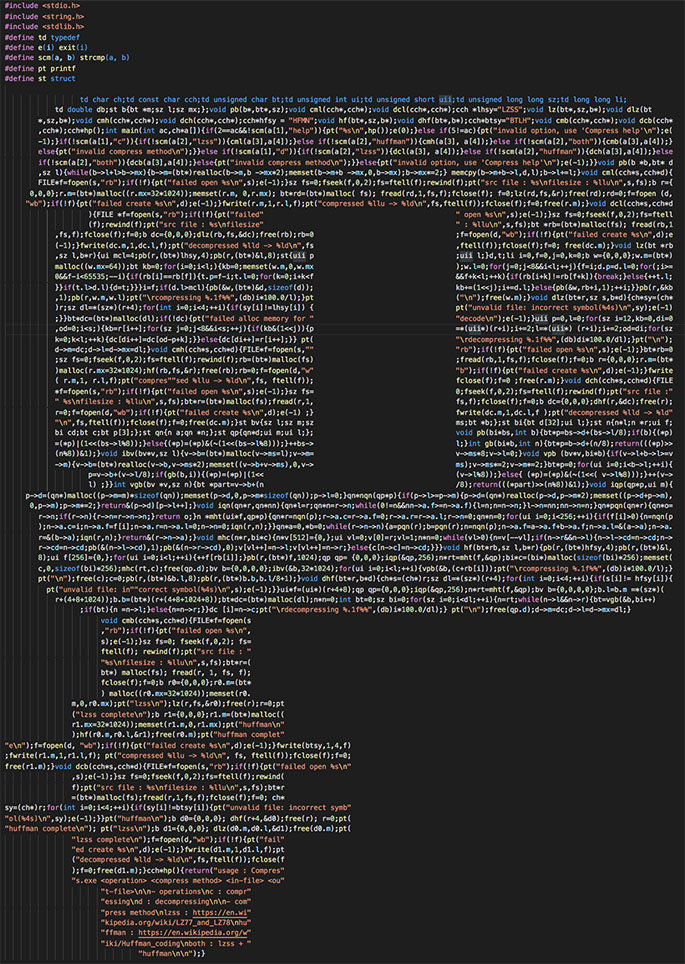
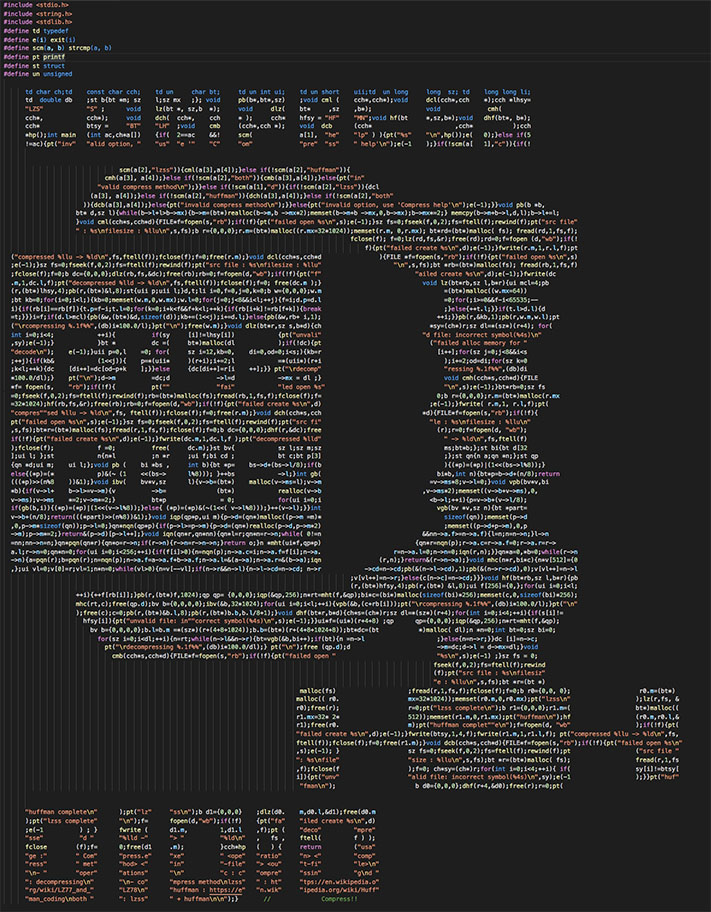
change code layout

diff --git a/src/compress.cpp b/src/compress.cpp
@@ -6,87 +6,99 @@
 #define scm(a, b) strcmp(a, b)
 #define pt printf
 #define st struct
+#define un unsigned
 
-                  td char ch;td const char cch;td unsigned char bt;td unsigned int ui;td unsigned short uii;td unsigned long long sz;td long long li;
-            td double db;st b{bt *m;sz l;sz mx;};void pb(b*,bt*,sz);void cml(cch*,cch*);void dcl(cch*,cch*);cch *lhsy="LZSS";void lz(bt*,sz,b*);void dlz(bt
-        *,sz,b*);void cmh(cch*,cch*);void dch(cch*,cch*);cch*hfsy = "HFMN";void hf(bt*,sz,b*);void dhf(bt*,b*);cch*btsy="BTLH";void cmb(cch*,cch*);void dcb(cch*
-        ,cch*);cch*hp();int main(int ac,ch*a[]){if(2==ac&&!scm(a[1],"help")){pt("%s\n",hp());e(0);}else if(5!=ac){pt("invalid option, use 'Compress help'\n");e(
-        -1);}if(!scm(a[1],"c")){if(!scm(a[2],"lzss")){cml(a[3],a[4]);}else if(!scm(a[2],"huffman")){cmh(a[3], a[4]);}else if(!scm(a[2],"both")){cmb(a[3],a[4]);}
-        else{pt("invalid compress method\n");}}else if(!scm(a[1],"d")){if(!scm(a[2],"lzss")){dcl(a[3], a[4]);}else if(!scm(a[2],"huffman")){dch(a[3],a[4]);}else
-        if(!scm(a[2],"both")){dcb(a[3],a[4]);}else{pt("invalid compress method\n");}}else{pt("invalid option, use 'Compress help'\n");e(-1);}}void pb(b *b,bt* d
-        ,sz l){while(b->l+l>b->mx){b->m=(bt*)realloc(b->m,b ->mx*2);memset(b->m+b ->mx,0,b->mx);b->mx*=2;} memcpy(b->m+b->l,d,l);b->l+=l;}void cml(cch*s,cch*d){
-        FILE*f=fopen(s,"rb");if(!f){pt("failed open %s\n",s);e(-1);}sz fs=0;fseek(f,0,2);fs=ftell(f);rewind(f);pt("src file : %s\nfilesize : %llu\n",s,fs);b r={
-      0,0,0};r.m=(bt*)malloc((r.mx=32*1024));memset(r.m, 0,r.mx); bt*rd=(bt*)malloc( fs); fread(rd,1,fs,f);fclose(f); f=0;lz(rd,fs,&r);free(rd);rd=0;f=fopen (d,
-     "wb");if(!f){pt("failed create %s\n",d);e(-1);}fwrite(r.m,1,r.l,f);pt("compressed %llu -> %ld\n",fs,ftell(f));fclose(f);f=0;free(r.m);}void dcl(cch*s,cch*d
-                    ){FILE *f=fopen(s,"rb");if(!f){pt("failed"                                              " open %s\n",s);e(-1);}sz fs=0;fseek(f,0,2);fs=ftell
-                    (f);rewind(f);pt("src file : %s\nfilesize"                                              " : %llu\n",s,fs);bt *rb=(bt*)malloc(fs); fread(rb,1
-            ,fs,f);fclose(f);f=0;b dc={0,0,0};dlz(rb,fs,&dc);free(rb);rb=0                                  ;f=fopen(d,"wb");if(!f){pt("failed create %s\n",d);e
-            (-1);}fwrite(dc.m,1,dc.l,f);pt("decompressed %lld -> %ld\n",fs                                  ,ftell(f));fclose(f);f=0; free(dc.m);}void lz(bt *rb
-            ,sz l,b*r){ui mcl=4;pb(r,(bt*)lhsy,4);pb(r,(bt*)&l,8);st{uii p                                  ;uii l;}d,t;li i=0,f=0,j=0,k=0;b w={0,0,0};w.m=(bt*)
-            malloc((w.mx=64));bt kb=0;for(i=0;i<l;){kb=0;memset(w.m,0,w.mx                                  );w.l=0;for(j=0;j<8&&i<l;++j){f=i;d.p=d.l=0;for(;i>=
-            0&&f-i<65535;--i){if(rb[i]==rb[f]){t.p=f-i;t.l=0;for(k=0;i+k<f                                  &&f+k<l;++k){if(rb[i+k]!=rb[f+k]){break;}else{++t.l;
-            }}if(t.l>d.l){d=t;}}}i=f;if(d.l>mcl){pb(&w,(bt*)&d,sizeof(d));                                  kb+=(1<<j);i+=d.l;}else{pb(&w,rb+i,1);++i;}}pb(r,&kb
-            ,1);pb(r,w.m,w.l);pt("\rcompressing %.1f%%",(db)i*100.0/l);}pt                                  ("\n");free(w.m);}void dlz(bt*r,sz s,b*d){ch*sy=(ch*
-            )r;sz dl=*(sz*)(r+4);for(int i=0;i<4;++i){if(sy[i]!=lhsy[i]) {                                  pt("unvalid file: incorrect symbol(%4s)\n",sy);e(-1)
-            ;}}bt*dc=(bt*)malloc(dl);if(!dc){pt("failed alloc memory for "                                  "decode\n");e(-1);}uii p=0,l=0;for(sz i=12,kb=0,di=0
-            ,od=0;i<s;){kb=r[i++];for(sz j=0;j<8&&i<s;++j){if(kb&(1<<j)){p                                  =*(uii*)(r+i);i+=2;l=*(uii*) (r+i);i+=2;od=di;for(sz 
-            k=0;k<l;++k){dc[di++]=dc[od-p+k];}}else{dc[di++]=r[i++];}} pt(                                  "\rdecompressing %.1f%%",(db)di*100.0/dl);}pt("\n");
-            d->m=dc;d->l=d->mx=dl;}void cmh(cch*s,cch*d){FILE*f=fopen(s,""                                  "rb");if(!f){pt("failed open %s\n",s);e(-1);}bt*rb=0
-            ;sz fs=0;fseek(f,0,2);fs=ftell(f);rewind(f);rb=(bt*)malloc(fs)                                  ;fread(rb,1,fs,f);fclose(f);f=0;b r={0,0,0};r.m=(bt*
-            )malloc(r.mx=32*1024);hf(rb,fs,&r);free(rb);rb=0;f=fopen(d,"w"                                  "b");if(!f){pt("failed create %s\n",d);e(-1);}fwrite
-            ( r.m,1, r.l,f);pt("compres""sed %llu -> %ld\n",fs, ftell(f));                                  fclose(f);f=0 ;free(r.m);}void dch(cch*s,cch*d){FILE
-            *f=fopen(s,"rb");if(!f){pt("failed open %s\n",s);e(-1);}sz fs=                                  0;fseek(f,0,2);fs=ftell(f);rewind(f);pt("src file :"
-            " %s\nfilesize : %llu\n",s,fs);bt*r=(bt*)malloc(fs);fread(r,1,                                  fs,f);fclose(f);f=0;b dc={0,0,0};dhf(r,&dc);free(r);
-            r=0;f=fopen(d,"wb");if(!f){pt("failed create %s\n",d);e(-1) ;}                                  fwrite(dc.m,1,dc.l,f );pt("decompressed %lld -> %ld"
-            "\n",fs,ftell(f));fclose(f);f=0;free(dc.m);}st bv{sz l;sz m;sz                                  ms;bt *b;};st bi{bt d[32];ui l;};st n{n*l;n *r;ui f;
-            bi cd;bt c;bt p[3];};st qn{n a;qn *n;};st qp{qn*d;ui m;ui l;};                                  void pb(bi*bs,int b){bt*p=bs->d+(bs->l/8);if(b){(*p)
-            =(*p)|(1<<(bs->l%8));}else{(*p)=(*p)&(~(1<<(bs->l%8)));}++bs->                                  l;}int gb(bi*b,int n){bt*p=b->d+(n/8);return(((*p)>>
-            (n%8))&1);}void ibv(bv*v,sz l){v->b=(bt*)malloc(v->ms=l);v->m=                                  v->ms*8;v->l=0;}void vpb (bv*v,bi*b){if(v->l+b->l>=v
-            ->m){v->b=(bt*)realloc(v->b,v->ms*2);memset((v->b+v->ms),0,v->                                  ms);v->ms*=2;v->m*=2;}bt*p=0;for(ui i=0;i<b->l;++i){
-                    p=v->b+(v->l/8);if(gb(b,i)){(*p)=(*p)|(1<<                                              (v->l%8));}else{ (*p)=(*p)&(~(1<<( v->l%8)));}++(v->
-                    l) ;}}int vgb(bv *v,sz n){bt *part=v->b+(n                                              /8);return(((*part)>>(n%8))&1);}void iqp(qp*p,ui m){
-     p->d=(qn*)malloc((p->m=m)*sizeof(qn));memset(p->d,0,p->m*sizeof(qn));p->l=0;}qn*nqn(qp*p){if(p->l>=p->m){p->d=(qn*)realloc(p->d,p->m*2);memset((p->d+p->m),
-      0,p->m);p->m*=2;}return&(p->d)[p->l++];}void iqn(qn*r,qn*nn){qn*l=r;qn*n=r->n;while(0!=n&&nn->a.f>=n->a.f){l=n;n=n->n;}l->n=nn;nn->n=n;}qn*pqn(qn*r){qn*o=
-        r->n;if(r->n){r->n=r->n->n;}return o;}n *mht(ui*f,qp*p){qn*r=nqn(p);r->a.c=r->a.f=0;r->a.r=r->a.l;r->n=0;qn*n=0;for(ui i=0;i<256;++i){if(f[i]>0){n=nqn(p
-        );n->a.c=i;n->a.f=f[i];n->a.r=n->a.l=0;n->n=0;iqn(r,n);}}qn*a=0,*b=0;while(r->n->n){a=pqn(r);b=pqn(r);n=nqn(p);n->a.f=a->a.f+b->a.f;n->a.l=&(a->a);n->a.
-        r=&(b->a);iqn(r,n);}return&(r->n->a);}void mhc(n*r,bi*c){n*v[512]={0,};ui vl=0;v[0]=r;vl=1;n*n=0;while(vl>0){n=v[--vl];if(n->r&&n->l){n->l->cd=n->cd;n->
-        r->cd=n->cd;pb(&(n->l->cd),1);pb(&(n->r->cd),0);v[vl++]=n->l;v[vl++]=n->r;}else{c[n->c]=n->cd;}}}void hf(bt*rb,sz l,b*r){pb(r,(bt*)hfsy,4);pb(r,(bt*)&l,
-        8);ui f[256]={0,};for(ui i=0;i<l;++i){++f[rb[i]];}pb(r,(bt*)f,1024);qp qp= {0,0,0};iqp(&qp,256);n*rt=mht(f,&qp);bi*c=(bi*)malloc(sizeof(bi)*256);memset(
-        c,0,sizeof(bi)*256);mhc(rt,c);free(qp.d);bv b={0,0,0,0};ibv(&b,32*1024);for(ui i=0;i<l;++i){vpb(&b,(c+rb[i]));pt("\rcompressing %.1f%%",(db)i*100.0/l);}
-        pt("\n");free(c);c=0;pb(r,(bt*)&b.l,8);pb(r,(bt*)b.b,b.l/8+1);}void dhf(bt*r,b*d){ch*s=(ch*)r;sz dl=*(sz*)(r+4);for(int i=0;i<4;++i){if(s[i]!= hfsy[i]){
-          pt("unvalid file: in""correct symbol(%4s)\n",s);e(-1);}}ui*f=(ui*)(r+4+8);qp qp={0,0,0};iqp(&qp,256);n*rt=mht(f,&qp);bv b={0,0,0,0};b.l=b.m =*(sz*)(
-            r+(4+8+1024));b.b=(bt*)(r+(4+8+1024+8));bt*dc=(bt*)malloc(dl);n*n=0;int bt=0;sz bi=0;for(sz i=0;i<dl;++i){n=rt;while(n->l&&n->r){bt=vgb(&b,bi++)
-                  ;if(bt){n =n->l;}else{n=n->r;}}dc [i]=n->c;pt("\rdecompressing %.1f%%",(db)i*100.0/dl);} pt("\n");free(qp.d);d->m=dc;d->l=d->mx=dl;}
-                       void cmb(cch*s,cch*d){FILE*f=fopen(s
-                       ,"rb");if(!f){pt("failed open %s\n",
-                       s);e(-1);}sz fs=0; fseek(f,0,2); fs=
-                       ftell(f); rewind(f);pt("src file : "
-                       "%s\nfilesize : %llu\n",s,fs);bt*r=(
-                       bt*) malloc(fs); fread(r, 1, fs, f);
-                       fclose(f);f=0;b r0={0,0,0};r0.m=(bt*
-                       ) malloc((r0.mx=32*1024));memset(r0.
-                m,0,r0.mx);pt("lzss\n");lz(r,fs,&r0);free(r);r=0;pt
-                ("lzss complete\n");b r1={0,0,0};r1.m=(bt*)malloc((
-                r1.mx=32*1024));memset(r1.m,0,r1.mx);pt("huffman\n"
-                );hf(r0.m,r0.l,&r1);free(r0.m);pt("huffman complet"
-"e\n");f=fopen(d, "wb");if(!f){pt("failed create %s\n",d);e(-1);}fwrite(btsy,1,4,f)
-;fwrite(r1.m,1,r1.l,f); pt("compressed %llu -> %ld\n", fs, ftell(f));fclose(f);f=0;
-free(r1.m);}void dcb(cch*s,cch*d){FILE*f=fopen(s,"rb");if(!f){pt("failed open %s\n"
-                ,s);e(-1);}sz fs=0;fseek(f,0,2);fs=ftell(f);rewind(
-                f);pt("src file : %s\nfilesize : %llu\n",s,fs);bt*r
-                =(bt*)malloc(fs);fread(r,1,fs,f);fclose(f);f=0; ch*
-sy=(ch*)r;for(int i=0;i<4;++i){if(sy[i]!=btsy[i]){pt("unvalid file: incorrect symb"
-"ol(%4s)\n",sy);e(-1);}}pt("huffman\n");b d0={0,0,0}; dhf(r+4,&d0);free(r); r=0;pt(
-"huffman complete\n"); pt("lzss\n");b d1={0,0,0}; dlz(d0.m,d0.l,&d1);free(d0.m);pt(
-                "lzss complete\n");f=fopen(d,"wb");if(!f){pt("fail"
-                "ed create %s\n",d);e(-1);}fwrite(d1.m,1,d1.l,f);pt
-                ("decompressed %lld -> %ld\n",fs,ftell(f));fclose(f
-                );f=0;free(d1.m);}cch*hp(){return("usage : Compres"
-                "s.exe <operation> <compress method> <in-file> <ou"
-                       "t-file>\n\n- operations\nc : compr"
-                       "essing\nd : decompressing\n\n- com"
-                       "press method\nlzss : https://en.wi"
-                       "kipedia.org/wiki/LZ77_and_LZ78\nhu"
-                       "ffman : https://en.wikipedia.org/w"
-                       "iki/Huffman_coding\nboth : lzss + "
-                                "huffman\n\n");}
+      td char ch;td    const char cch;    td un     char bt;     td un int ui;    td un short    uii;td  un long     long  sz; td    long long li;
+      td  double db    ;st b{bt *m; sz    l;sz mx   ;}; void     pb(b*,bt*,sz)    ;void cml (    cch*,cch*);void     dcl(cch*,cch    *);cch *lhsy=
+      "LZS"            "S" ;      void    lz(bt *, sz,b  *);     void     dlz(    bt*     ,sz    ,b*);               void             cmh(
+      cch*,            cch*);     void    dch(  cch*,    cch     * );     cch*    hfsy = "HF"    "MN";void hf(bt     *,sz,b*);void   dhf(bt*, b*);
+      cch*             btsy =     "BT"    "LH"  ;void    cmb     (cch*,cch *);    void  dcb      (cch*                       ,cch*           );cch      
+      *hp();int main   (int ac,ch*a[])    {if(  2==ac    &&!     scm(             a[1],  "he"    "lp" ) ){pt("%s"    "\n",hp());e(   0);}else if(5
+      !=ac){pt("inv"   "alid option, "    "us"  "e '"    "C"     "om"             "pre"  "ss"    " help'\n");e(-1    );}if(!scm(a[   1],"c")){if(!
+              
+              
+                                scm(a[2],"lzss")){cml(a[3],a[4]);}else if(!scm(a[2],"huffman")){
+                            cmh(a[3], a[4]);}else if(!scm(a[2],"both")){cmb(a[3],a[4]);}else{pt("in"
+                          "valid compress method\n");}}else if(!scm(a[1],"d")){if(!scm(a[2],"lzss")){dcl
+                        (a[3], a[4]);}else if(!scm(a[2],"huffman")){dch(a[3],a[4]);}else if(!scm(a[2],"both"
+                      )){dcb(a[3],a[4]);}else{pt("invalid compress method\n");}}else{pt("invalid option, use 'Compress help'\n");e(-1);}}void pb(b *b,
+                    bt* d,sz l){while(b->l+l>b->mx){b->m=(bt*)realloc(b->m,b ->mx*2);memset(b->m+b ->mx,0,b->mx);b->mx*=2;} memcpy(b->m+b->l,d,l);b->l+=l;
+                    }void cml(cch*s,cch*d){FILE*f=fopen(s,"rb");if(!f){pt("failed open %s\n",s);e(-1);}sz fs=0;fseek(f,0,2);fs=ftell(f);rewind(f);pt("src file"
+                    " : %s\nfilesize : %llu\n",s,fs);b r={0,0,0};r.m=(bt*)malloc((r.mx=32*1024));memset(r.m, 0,r.mx); bt*rd=(bt*)malloc( fs); fread(rd,1,fs,f);
+                                                                                                fclose(f); f=0;lz(rd,fs,&r);free(rd);rd=0;f=fopen (d,"wb");if(!
+                                                                                                    f){pt("failed create %s\n",d);e(-1);}fwrite(r.m,1,r.l,f);pt
+  ("compressed %llu -> %ld\n",fs,ftell(f));fclose(f);f=0;free(r.m);}void dcl(cch*s,cch*d                ){FILE *f=fopen(s,"rb");if(!f){pt("failed open %s\n",s)
+  ;e(-1);}sz fs=0;fseek(f,0,2);fs=ftell(f);rewind(f);pt("src file : %s\nfilesize : %llu"                    "\n",s,fs);bt *rb=(bt*)malloc(fs); fread(rb,1,fs,f)
+  ;fclose(f);f=0;b dc={0,0,0};dlz(rb,fs,&dc);free(rb);rb=0;f=fopen(d,"wb");if(!f){pt("f"                          "ailed create %s\n",d);e(-1);}fwrite(dc    
+  .m,1,dc.l,f);pt("decompressed %lld -> %ld\n",fs,ftell(f));fclose(f);f=0; free(dc.m );}                            void lz(bt*rb,sz l,b*r){ui mcl=4;pb   
+  (r,(bt*)lhsy,4);pb(r,(bt*)&l,8);st{uii p;uii l;}d,t;li i=0,f=0,j=0,k=0;b w={0,0,0};w.m                                  =(bt*)malloc((w.mx=64))
+  ;bt kb=0;for(i=0;i<l;){kb=0;memset(w.m,0,w.mx);w.l=0;for(j=0;j<8&&i<l;++j){f=i;d.p=d.l                                  =0;for(;i>=0&&f-i<65535;--
+  i){if(rb[i]==rb[f]){t.p=f-i;t.l=0;for(k=0;i+k<f&&f+k<l;++k){if(rb[i+k]!=rb[f+k]){break                                  ;}else{++t.l;}}if(t.l>d.l){d
+  =t;}}}i=f;if(d.l>mcl){pb(&w,(bt*)&d,sizeof(d));kb+=(1<<j);i+=d.l;}else{pb(&w,rb+ i,1);                                ++i;}}pb(r,&kb,1);pb(r,w.m,w.l);pt  
+  ("\rcompressing %.1f%%",(db)i*100.0/l);}pt("\n");free(w.m);}void dlz(bt*r,sz s,b*d){ch                              *sy=(ch*)r;sz dl=*(sz*)(r+4); for(
+  int i=0;i<4;            ++i){          if(sy     [i]!=lhsy[i])            {pt("unvali"                            "d file: incorrect symbol(%4s)\n"  
+  ,sy);e(-1);}            }bt *          dc =(     bt*)malloc(dl            );if(!dc){pt                              ("failed alloc memory for "
+  "decode\n");    e(-1);}uii p=0,l    =0; for(     sz i=12,kb=0,    di=0,od=0;i<s;){kb=r                                [i++];for(sz j=0;j<8&&i<s
+  ;++j){if(kb&            (1<<j)){    p=*(uii*     )(r+i);i+=2;l            =*(uii*)(r+i                                  );i+=2;od=di;for(sz k=0
+  ;k<l;++k){dc    [di++]=dc[od-p+k    ];}}else     {dc[di++]=r[i    ++];}} pt("\rdecomp"                                  "ressing %.1f%%",(db)di
+  *100.0/dl);}    pt("\n");d->m          =dc;d             ->l=d            ->mx = dl ;}                                  void cmh(cch*s,cch*d){FILE
+  *f= fopen(s,    "rb");if(!f){          pt(""             "fai"            "led open %s"                                 "\n",s);e(-1);}bt*rb=0;sz fs
+  =0;fseek(f,0,2);fs=ftell(f);rewind(f);rb=(bt*)malloc(fs);fread(rb,1,fs,f);fclose(f);f=                                0;b r={0,0,0};r.m=(bt*)malloc(r.mx
+  =32*1024);hf(rb,fs,&r);free(rb);rb=0;f=fopen(d,"wb");if(!f){pt("failed create %s\n",d)                              ;e(-1);}fwrite( r.m,1, r.l,f);pt( 
+  "compres""sed %llu -> %ld\n",fs, ftell(f));fclose(f);f=0;free(r.m);}void dch(cch*s,cch                            *d){FILE*f=fopen(s,"rb");if(!f){
+  pt("failed open %s\n",s);e(-1);}sz fs=0;fseek(f,0,2);fs=ftell(f);rewind(f);pt("src fi"                              "le : %s\nfilesize : %llu\n"
+  ,s,fs);bt*r=(bt*)malloc(fs);fread(r,1,fs,f);fclose(f);f=0;b dc={0,0,0};dhf(r,&dc);free                                (r);r=0;f=fopen(d, "wb");
+  if(!f){pt("failed create %s\n",d);e(-1);}fwrite(dc.m,1,dc.l,f );pt("decompressed %lld"                                  " -> %ld\n",fs,ftell(f)
+  );fclose(f);            f =0;          free(     dc.m);}st bv{            sz l;sz m;sz                                  ms;bt*b;};st bi{bt d[32
+  ];ui l; };st            n{n*l          ;n *r     ;ui f;bi cd ;            bt c;bt p[3]                                  ;};st qn{n a;qn *n;};st qp
+  {qn *d;ui m;    ui l;};void pb (    bi *bs ,     int b){bt *p=    bs->d+(bs->l/8);if(b                                  ){(*p)=(*p)|(1<<(bs->l%8));}
+  else{(*p)=(*            p)&(~ (1    <<(bs->      l%8))); }++bs            ->l;}int gb(                                bi*b,int n){bt*p=b->d+(n/8);return
+  (((*p)>>(n%8    ))&1);}void ibv(    bv*v,sz      l){v->b=(bt*)    malloc(v->ms=l);v->m                              =v->ms*8;v->l=0;}void vpb(bv*v,bi
+  *b){if(v->l+    b->l>=v->m){v          ->b=              (bt*)            realloc(v->b                            ,v->ms*2);memset((v->b+v->ms),0,
+  v->ms);v->ms    *=2;v->m*=2;}          bt*p               = 0;            for(ui i=0;i                              <b->l;++i){p=v->b+(v->l/8);
+  if(gb(b,i)){(*p)=(*p)|(1<<(v->l%8));}else{ (*p)=(*p)&(~(1<<( v->l%8)));}++(v->l);}}int                                vgb(bv *v,sz n){bt *part=
+  v->b+(n/8);return(((*part)>>(n%8))&1);}void iqp(qp*p,ui m){p->d=(qn*)malloc((p->m =m)*                                  sizeof(qn));memset(p->d
+  ,0,p->m*sizeof(qn));p->l=0;}qn*nqn(qp*p){if(p->l>=p->m){p->d=(qn*)realloc(p->d,p->m*2)                                  ;memset((p->d+p->m),0,p
+  ->m);p->m*=2;}return&(p->d)[p->l++];}void iqn(qn*r,qn*nn){qn*l=r;qn*n=r->n;while( 0!=n                            &&nn->a.f>=n->a.f){l=n;n=n->n;}l->n
+  =nn;nn->n=n;}qn*pqn(qn*r){qn*o=r->n;if(r->n){r->n=r->n->n;}return o;}n *mht(ui*f,qp*p)                          {qn*r=nqn(p);r->a.c=r->a.f=0;r->a.r=r->
+  a.l;r->n=0;qn*n=0;for(ui i=0;i<256;++i){if(f[i]>0){n=nqn(p);n->a.c=i;n->a.f=f[i];n->a.                    r=n->a.l=0;n->n=0;iqn(r,n);}}qn*a=0,*b=0;while(r->n
+  ->n){a=pqn(r);b=pqn(r);n=nqn(p);n->a.f=a->a.f+b->a.f;n->a.l=&(a->a);n->a.r=&(b->a);iqn                (r,n);}return&(r->n->a);}void mhc(n*r,bi*c){n*v[512]={0
+  ,};ui vl=0;v[0]=r;vl=1;n*n=0;while(vl>0){n=v[--vl];if(n->r&&n->l){n->l->cd=n->cd; n->r            ->cd=n->cd;pb(&(n->l->cd),1);pb(&(n->r->cd),0);v[vl++]=n->l
+                                                                                                ;v[vl++]=n->r;}else{c[n->c]=n->cd;}}}void hf(bt*rb,sz l,b*r){pb
+                                                                                                (r,(bt*)hfsy,4);pb(r,(bt*) &l,8);ui f[256]={0,};for(ui i=0;i<l;
+                    ++i){++f[rb[i]];}pb(r,(bt*)f,1024);qp qp= {0,0,0};iqp(&qp,256);n*rt=mht(f,&qp);bi*c=(bi*)malloc(sizeof(bi)*256);memset(c,0,sizeof(bi)*256);
+                    mhc(rt,c);free(qp.d);bv b={0,0,0,0};ibv(&b,32*1024);for(ui i=0;i<l;++i){vpb(&b,(c+rb[i]));pt("\rcompressing %.1f%%",(db)i*100.0/l);}pt("\n"
+                    );free(c);c=0;pb(r,(bt*)&b.l,8);pb(r,(bt*)b.b,b.l/8+1);}void dhf(bt*r,b*d){ch*s=(ch*)r;sz dl=*(sz*)(r+4);for(int i=0;i<4;++i){if(s[i]!=
+                      hfsy[i]){pt("unvalid file: in""correct symbol(%4s)\n",s);e(-1);}}ui*f=(ui*)(r+4+8) ;qp      qp={0,0,0};iqp(&qp,256);n*rt=mht(f,&qp);
+                        bv b={0,0,0,0};b.l=b.m =*(sz*)(r+(4+8+1024));b.b=(bt*)(r+(4+8+1024+8));bt*dc=(bt           *)malloc( dl);n *n=0;int bt=0;sz bi=0;
+                          for(sz i=0;i<dl;++i){n=rt;while(n->l&&n->r){bt=vgb(&b,bi++);if(bt){n =n->l                    ;}else{n=n->r;}}dc [i]=n->c;
+                            pt("\rdecompressing %.1f%%",(db)i*100.0/dl);} pt("\n");free (qp.d);d                        ->m=dc;d->l = d->mx=dl;}void
+                              cmb(cch*s,cch*d){FILE*f=fopen(s,"rb");if(!f){pt("failed open "                            "%s\n",s);e(-1) ;}sz fs = 0;
+                                                                                                                       fseek(f,0,2);fs=ftell(f);rewind
+                                                                                                                       (f);pt("src file : %s\nfilesiz"
+                                                                                                                       "e : %llu\n",s,fs);bt *r=(bt *)
+                                                                                  malloc(fs)                    ;fread(r,1,fs,f);fclose(f);f=0;b r0={0,0, 0};                   r0.m=(bt*)
+                                                                                 malloc(( r0.                   mx=32*1024));memset(r0.m,0,r0.mx);pt("lzss\n"                  );lz(r,fs, &
+                                                                                 r0);free(r);                   r=0;pt("lzss complete\n");b r1={0,0,0};r1.m=(                  bt*)malloc((
+                                                                                 r1.mx=32* 2*                   512));memset(r1.m,0,r1.mx);pt("huffman\n");hf                  (r0.m,r0.l,&
+                                                                                 r1);free(r0.                   m);pt("huffman complet""e\n");f=fopen(d, "wb"                  );if(!f){pt(
+                                                                                 "failed create %s\n",d);e(-1);}fwrite(btsy,1,4,f);fwrite(r1.m,1,r1.l,f); pt("compressed %llu -> %ld\n",fs,
+                                                                                 ftell(f));fclose(f);f=0;free(r1.m);}void dcb(cch*s,cch*d){FILE*f=fopen(s,"rb");if(!f){pt("failed open %s\n"
+                                                                                 ,s);e(-1); }                   sz fs=0;fseek(f,0,2);fs=ftell(f);rewind(f);pt                  ("src file "
+                                                                                 ": %s\nfile"                   "size : %llu\n",s,fs);bt *r=(bt*)malloc( fs);                  fread(r,1,fs
+                                                                                 ,f);fclose(f                   );f=0; ch*sy=(ch*)r;for(int i=0;i<4;++i){ if(                  sy[i]!=btsy[
+                                                                                 i]){pt("unv"                   "alid file: incorrect symbol(%4s)\n",sy);e(-1                  );}}pt("huf"
+                                                                                  "fman\n");                      b d0={0,0,0};dhf(r+4,&d0);free(r);r=0;pt(   
+                                                                                    
+                                                                                    
+      "huffman complete\n"      );pt("lz"     "ss\n");b d1={0,0,0}    ;dlz(d0.    m,d0.l,&d1);free(d0.m
+      );pt("lzss complete"      "\n");f=      fopen(d,"wb");if(!f)    {pt("fa"    "iled create %s\n",d)
+      ;e(-1          ) ; }      fwrite (      d1.m,         1,d1.l    ,f);pt (    "deco"         "mpre"
+      "sse"          "d "       "%lld -"      "> "          "%ld\n"   ,   fs ,    ftell(         f ) );
+      fclose        (f);f=      0;free(d1     .m);          }cch*hp   (   ) {     return         ("usa"
+      "ge :"        " Com"      "press.e"     "xe"          " <ope"   "ratio"     "n> <"         "comp"
+      "ress"        " met"      "hod> <"      "in"          "-file"   "> <ou"     "t-fi"         "le>\n"
+      "\n- "        "oper"      "ations"      "\n"          "c : c"   "ompre"     "ssin"         "g\nd "
+      ": decompressing\n"       "\n- co"      "mpress method\nlzss"   " : ht"     "tps://en.wikipedia.o"
+      "rg/wiki/LZ77_and_"       "LZ78\n"      "huffman : https://e"   "n.wik"     "ipedia.org/wiki/Huff"
+      "man_coding\nboth "       ": lzss"      " + huffman\n\n");}       //              Compress!!

diff --git a/README.md b/README.md
@@ -18,4 +18,5 @@
   * both : lzss + huffman
 
 ## Source Code Image
+>src/Compress.cpp
 ![Alt text](codeimg.jpg)
